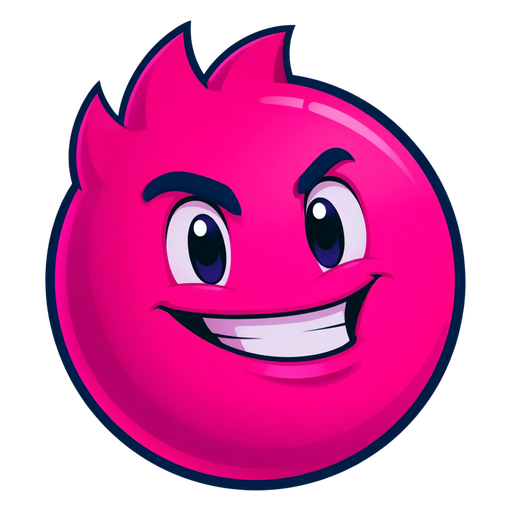
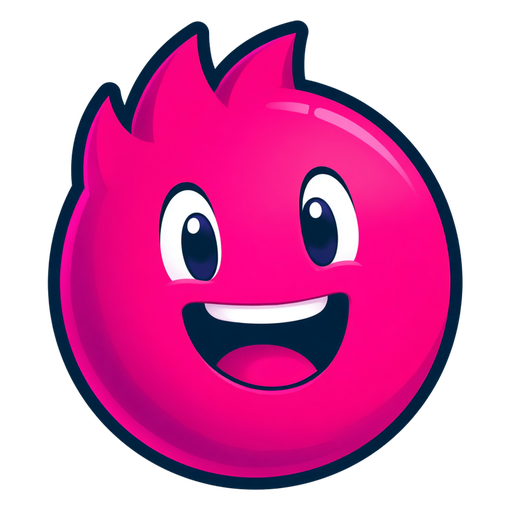
feat(avatares): el clásico estrena la cara del icono, y el nerd entra en cola
El retrato por defecto salía de un prompt que pedía «a confident lopsided grin,
one eyebrow raised, the easy confidence of someone who already knows you»: el
arte cumplió el encargo y el resultado es pícaro. Como cara por defecto —y como
fallback de quien no lleva avatar equipado en ranking, vecinos y aviso de
rival— funciona mejor la de la marca, que es la del icono de la app.

Sale del mismo render de 1024 px del que `compose-icons` deriva los iconos de la
PWA, pasado por `trim_square_resize` de mjlib, la misma función que encuadra al
resto: 416x470 sobre el lienzo de 512, en línea con mago (374x470) y nerd
(432x468). Copiar `icon-512` tal cual lo habría dejado un 8 % más pequeño que
sus vecinos en la rejilla, porque el icono lleva el doble de margen vertical.

El catálogo de fase-4 deja de describir un arte que ya no existe: la entrada de
`clasico` apunta ahora al prompt y al fuente de la pieza `app-icon`.

`nerd` queda en cola con `regen: true` —no `done: false`, que lo despublicaría
mientras tanto— y un prompt nuevo. El anterior pedía «a smug clever grin» y
mirar «over the rim», que es justo lo que lo vuelve sabelotodo en vez de
inocente; ahora lleva los ojos abiertos detrás de los cristales, sonrisa suave y
las gafas rectas, con «eager and curious rather than clever» de ancla de tono.

SW_VERSION v3 (regla 9): `clasico.png` cambia de contenido conservando el nombre
y `/images/` se sirve cache-first, así que sin el bump los clientes instalados
[…]

Changed region(s): [[0.0625, 0.0312, 0.9375, 0.9688]]

diff --git a/public/sw.js b/public/sw.js
@@ -11,7 +11,11 @@
  * los caches dots-* de versiones anteriores.
  * Emergencia en producción: instrucciones en public/sw.kill.js.
  */
-const SW_VERSION = "v2";
+/* v3: el avatar `clasico` cambió de arte conservando el nombre de archivo, y
+   /images/ se sirve cache-first desde `dots-media-`. Sin este bump, quien ya lo
+   tuviera cacheado seguiría viendo el retrato viejo para siempre: el nombre no
+   lleva hash, así que nada más delata el cambio. */
+const SW_VERSION = "v3";
 
 const PRECACHE = `dots-precache-${SW_VERSION}`; // fijo, sin trim
 const STATIC = `dots-static-${SW_VERSION}`; //   runtime, con trim
